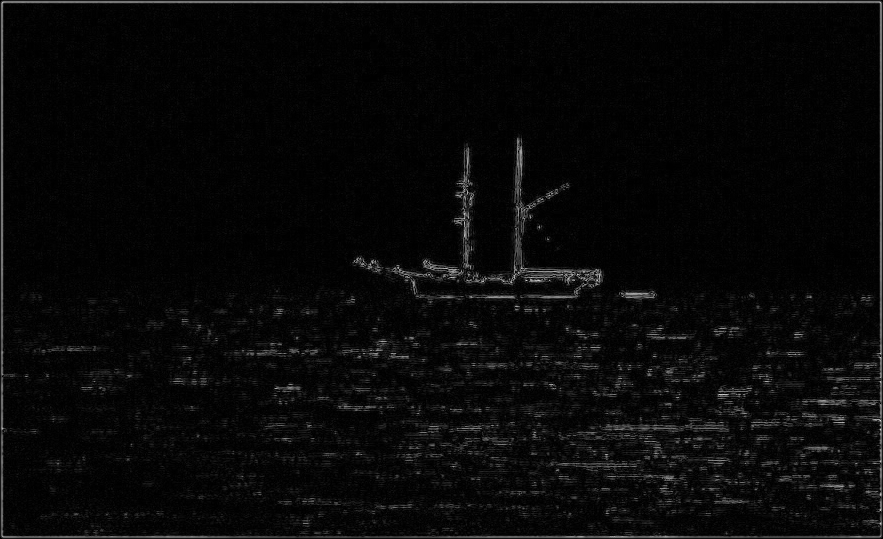
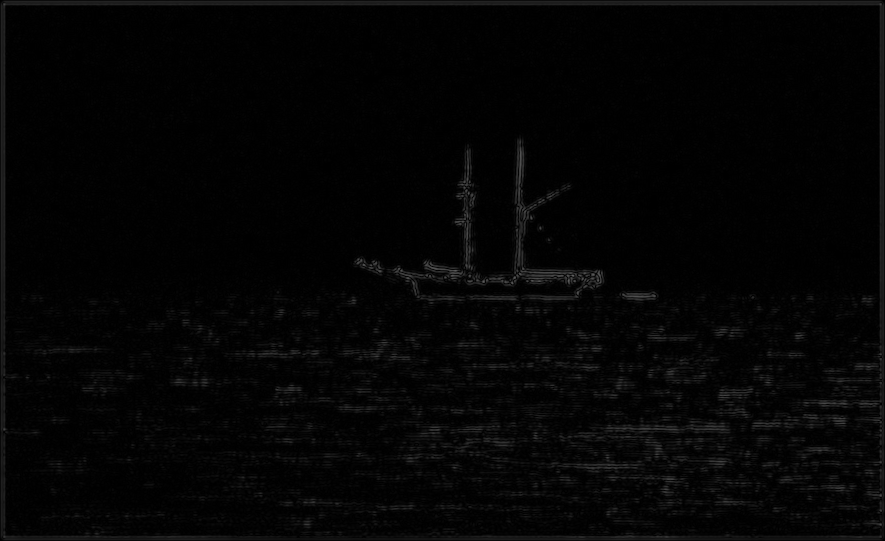
Updated threshold borders, added median filtering.

diff --git a/CPE462_Project.m b/CPE462_Project.m
@@ -52,10 +52,16 @@ filterLaplacian   = [ 0 -1  0;
                      -1  4 -1;
                       0 -1  0];
 
+%{this filter is too weak, testing stronger filter
 filterGaussian    = [0      0.125  0;
                      0.125  0.5    0.125;
                      0      0.125  0;];
-
+                     %}
+filterGaussian    = [1  4  7  4  1;
+                     4 16 26 16  4;
+                     7 26 41 26  7;
+                     4 16 26 16  4;
+                     1  4  7  4  1;]/273;
 filterLoG         = conv2(filterLaplacian, filterGaussian);
 
 filterLoGVert     = conv2(filterPrewittVert, filterGaussian);
@@ -89,8 +95,17 @@ outputLoG       = abs(conv2(image,filterLoG));
 
 outputLoGVert   = abs(conv2(image,filterLoGVert));
 
-threshold = graythresh(image);
-outputThresholding = imbinarize(outputLogVert, threshold);
+threshold = graythresh(outputLoGVert); %set threshold level
+outputThresholding = imbinarize(outputLoGVert, threshold); %binarize image
+[width, height] = size(outputThresholding); %obtain width and height of output
+%next 4 lines: set 10px of borders to 0 to compensate for convolution
+outputThresholding(1:10,:) = 0;
+outputThresholding(width-10:width,:) = 0;
+outputThresholding(:,1:10) = 0;
+outputThresholding(:,height-10:height) = 0;
+
+outputThresholding = medfilt2(outputThresholding,[5 5]);
+% ^^^ Experiment to median-filter threshold to eliminate small artifacts
 
 %TODO: Blobbing
 outputBlobbing = [0 0 0];
